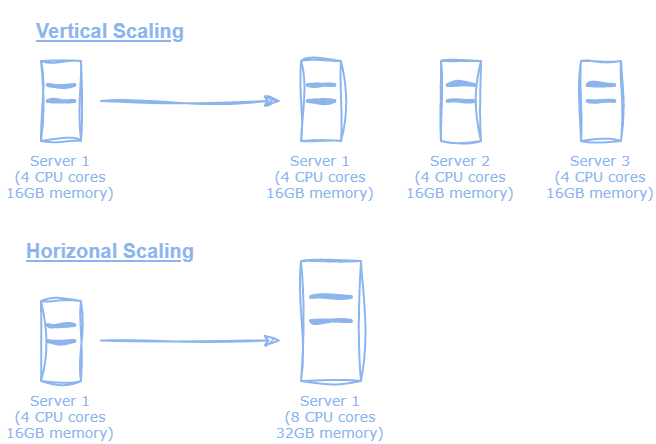
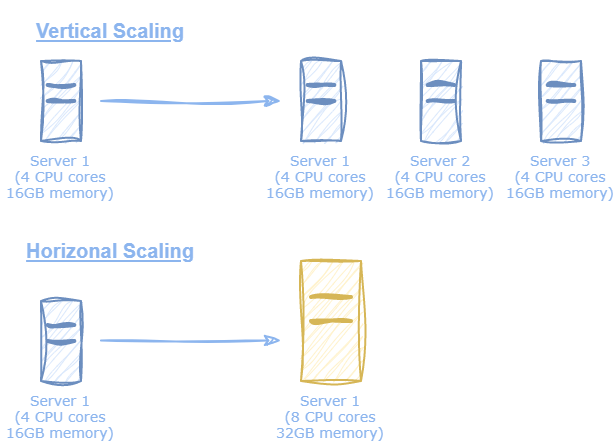
Saving work

diff --git a/web/content/cloud_computing/benefits.md b/web/content/cloud_computing/benefits.md
@@ -22,6 +22,10 @@ Readers should note that the above is a broad generality and should always take 
 
 Cloud provides have more computational resources available than most private data centers. Therefore, cloud services can be more readily scaled to account for increases or decreases in application load. A common example would be online retailers provisioning more servers on Black Friday to handle holiday traffic.  Conversely, resources can be scaled down to save on costs, such as outside business hours. 
 
-There are two types of scaling, horizontal and vertical. _Horizontal scaling_ refers to adding or removing additional servers for your application to account for an increase in load in a distributed fashion. _Vertical scaling_ refers to increasing or decreasing the CPU, memory, or storage of the servers themselves.
+There are two types of scaling, horizontal and vertical. _Horizontal scaling_ refers to adding or removing additional servers for your application to account for an increase in load in a distributed fashion. This type of scaling typically can be accomplished with minimal delay or application downtime.
 
-![Scaling Example](/images/cc/scaling.png)  
+{{< figure src="/images/cc/horizontal_scaling.png" caption="_Figure 1: With horizontal scaling, additional resources may be provisioned to handle increases in system load._">}}
+
+_Vertical scaling_ refers to modifying the underlying hardware configuration of cloud resources, such as memory, CPU, or storage. This operation is typically disruptive and may result in application downtime.
+
+{{< figure src="/images/cc/vertical_scaling.png" caption="_Figure 2: Vertical scaling changes the underlying hardware configuration for cloud resources, such as CPU or memory._">}}
